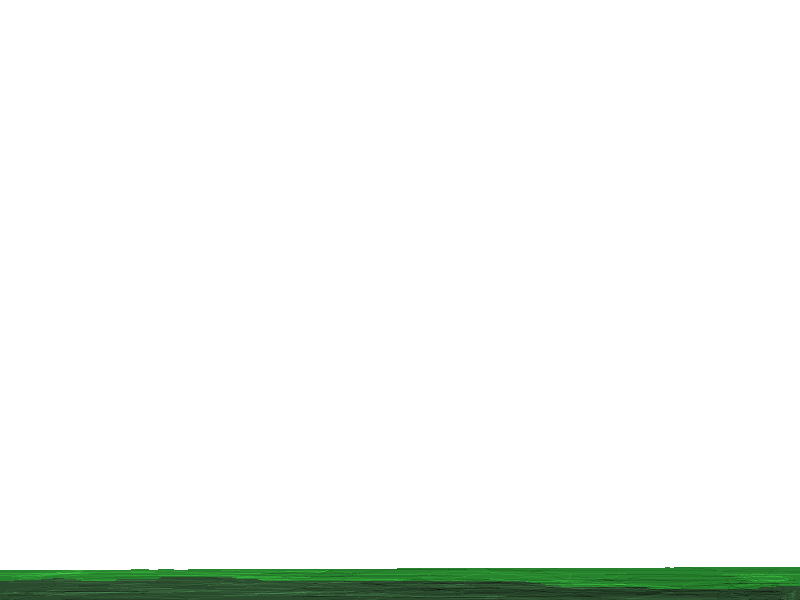
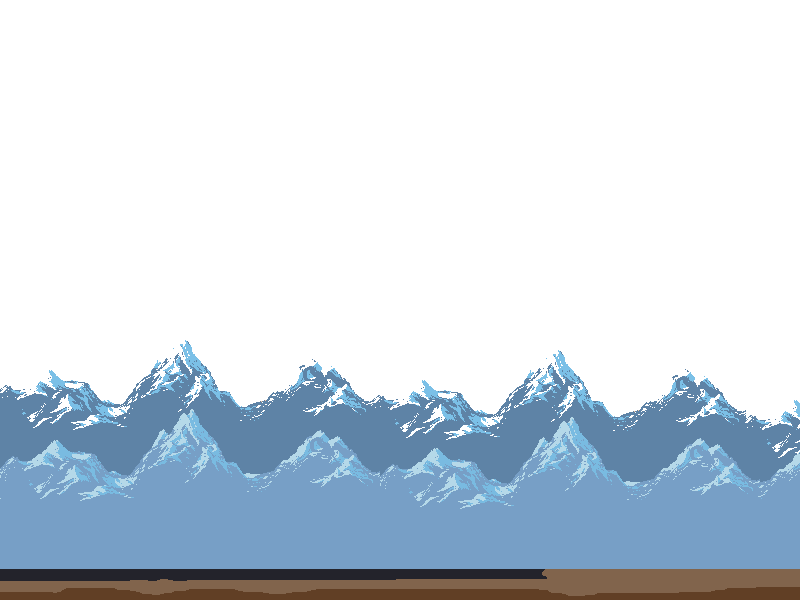
Added new dynamic clouds system, made some changes to the background and improved a few game aspects

diff --git a/main.py b/main.py
@@ -48,6 +48,20 @@ while(resolution.resolutionStatus):
 
 game.startWindow()
 
+# Clouds: #
+
+clouds_1 = Clouds(game, 0, 0, 0)
+clouds_2 = Clouds(game, 1, game.screenWidth // 2, game.screenHeight // 2)
+clouds_3 = Clouds(game, 2, game.screenWidth // 6, game.screenHeight // 3)
+clouds_4 = Clouds(game, 3, game.screenWidth // 3, game.screenHeight // 6)
+clouds_5 = Clouds(game, 4, 0, game.screenHeight // 2)
+clouds_6 = Clouds(game, 5, game.screenWidth, game.screenHeight // 6)
+clouds_7 = Clouds(game, 6, game.screenWidth, game.screenHeight // 3)
+clouds_8 = Clouds(game, 7, game.screenWidth // 18, game.screenHeight // 4)
+clouds_9 = Clouds(game, 8, game.screenWidth // 6, game.screenHeight // 6)
+clouds_10 = Clouds(game, 9, game.screenWidth // 16, game.screenHeight // 8)
+clouds_11 = Clouds(game, 10, game.screenWidth // 4, game.screenHeight // 10)
+
 # Sound: #
 
 sounds = Sounds()
@@ -90,7 +104,7 @@ enemyAnimations, enemyTypes, enemyHealth = loadGameEnemies(game.display, ['Tank'
 
 # Music: #
 
-sounds.playMusic()
+#sounds.playMusic()
 
 # Game Loop: #
 
@@ -150,6 +164,32 @@ while(game.engineRunning):
         # Ground: 
 
         background.setLevelDesign(loadGameImage('assets/Background.png', game.screenWidth, game.screenHeight), 0, 0)
+
+        # Clouds: 
+
+        clouds_1.drawCloud()
+        clouds_2.drawCloud()
+        clouds_3.drawCloud()
+        clouds_4.drawCloud()
+        clouds_5.drawCloud()
+        clouds_6.drawCloud()
+        clouds_7.drawCloud()
+        clouds_8.drawCloud()
+        clouds_9.drawCloud()
+        clouds_10.drawCloud()
+        clouds_11.drawCloud()
+
+        clouds_1.updateCloud()
+        clouds_2.updateCloud()
+        clouds_3.updateCloud()
+        clouds_4.updateCloud()
+        clouds_5.updateCloud()
+        clouds_6.updateCloud()
+        clouds_7.updateCloud()
+        clouds_8.updateCloud()
+        clouds_9.updateCloud()
+        clouds_10.updateCloud()
+        clouds_11.updateCloud()
 
         # Game Particles: 
 

diff --git a/engine.py b/engine.py
@@ -888,7 +888,13 @@ class Particles():
 
 		elif(particleType == "enemy"):
 
-			self.enemyParticles.append([[x + 30, y + 30], [random.randint(0, 20) / 10 - 1, -2], random.randint(8, 10)])
+			if(self.display.get_height() == 720 or self.display.get_height() == 1080):
+
+				self.enemyParticles.append([[x + 30, y + 30], [random.randint(0, 20) / 10 - 1, -2], random.randint(8, 10)])
+
+			else:
+
+				self.enemyParticles.append([[x + 30, y + 30], [random.randint(0, 20) / 10 - 1, -2], random.randint(4, 6)])
 
 		elif(particleType == "smoke"):
 
@@ -896,7 +902,13 @@ class Particles():
 
 		elif(particleType == "grass"):
 
-			self.grassParticles.append([[x, y], [random.randint(0, 10) / 10 - 1, -2], random.randint(4, 6)])
+			if(self.display.get_height() == 720 or self.display.get_height() == 1080):
+
+				self.grassParticles.append([[x, y], [random.randint(0, 10) / 10 - 1, -2], random.randint(4, 6)])
+
+			else:
+
+				self.grassParticles.append([[x, y], [random.randint(0, 10) / 10 - 1, -2], random.randint(2, 4)])
 
 		else:
 
@@ -1012,3 +1024,40 @@ class Resolution():
 				self.resolutionStatus = False
 				destroyGame()
 		pygame.display.update()
+
+
+class Clouds():
+	def __init__(self, game, imageID : int, x : int, y : int):
+
+ 		# Game: 
+
+ 		self.game = game
+
+ 		# Cloud Sprite: 
+
+ 		self.sprite = loadGameImage(f'assets/Clouds/{imageID}.png', self.game.screenWidth // 6, self.game.screenHeight // 12)
+
+ 		# Cloud Rectangle: 
+
+ 		self.rect = self.sprite.get_rect()
+ 		self.rect.x = x
+ 		self.rect.y = y
+ 		self.move = 1
+
+	def drawCloud(self):
+ 		self.game.display.blit(self.sprite, self.rect)
+
+	def updateCloud(self):
+
+ 		if(self.rect.x < self.game.screenWidth):
+
+ 			self.move = 1
+
+ 		else:
+
+ 			self.rect.x = -200
+ 		
+ 		self.rect.x += self.move
+
+
+

diff --git a/README.md b/README.md
@@ -38,6 +38,8 @@ This is a Python Fort Defending video game, made in pure Python. The engine is a
 
 I made sure the engine is well optimized and all features are split into different classes.
 
+Thanks to 'vnitti' for the background art. And also thanks to _Kassjak_ for the clouds art.
+
 ## Installation:
 
 To be able to run Fort Defender, you need to have Pygame installed on your computer.
